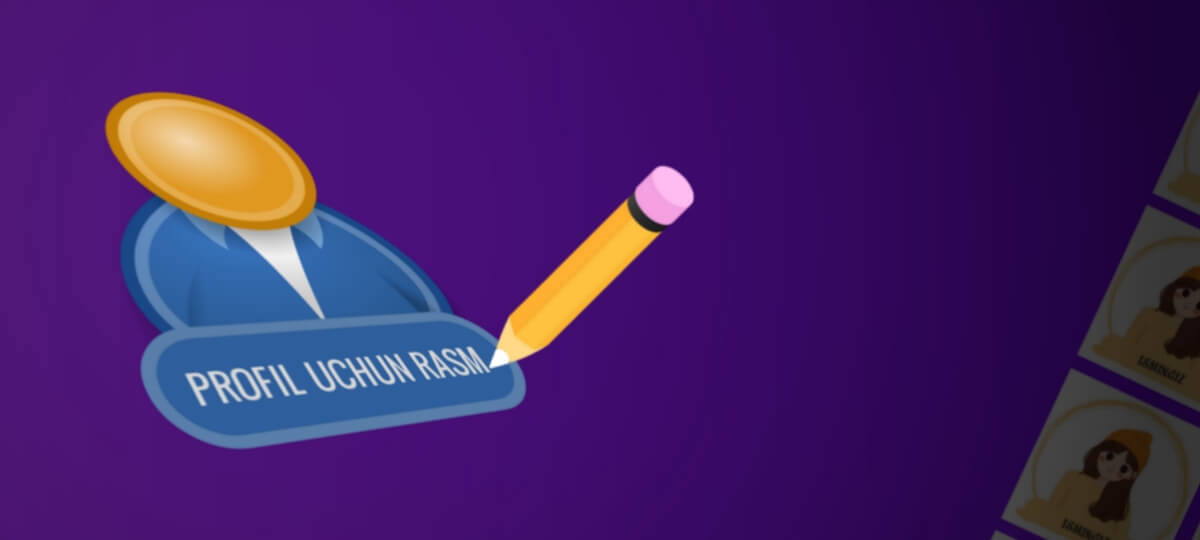
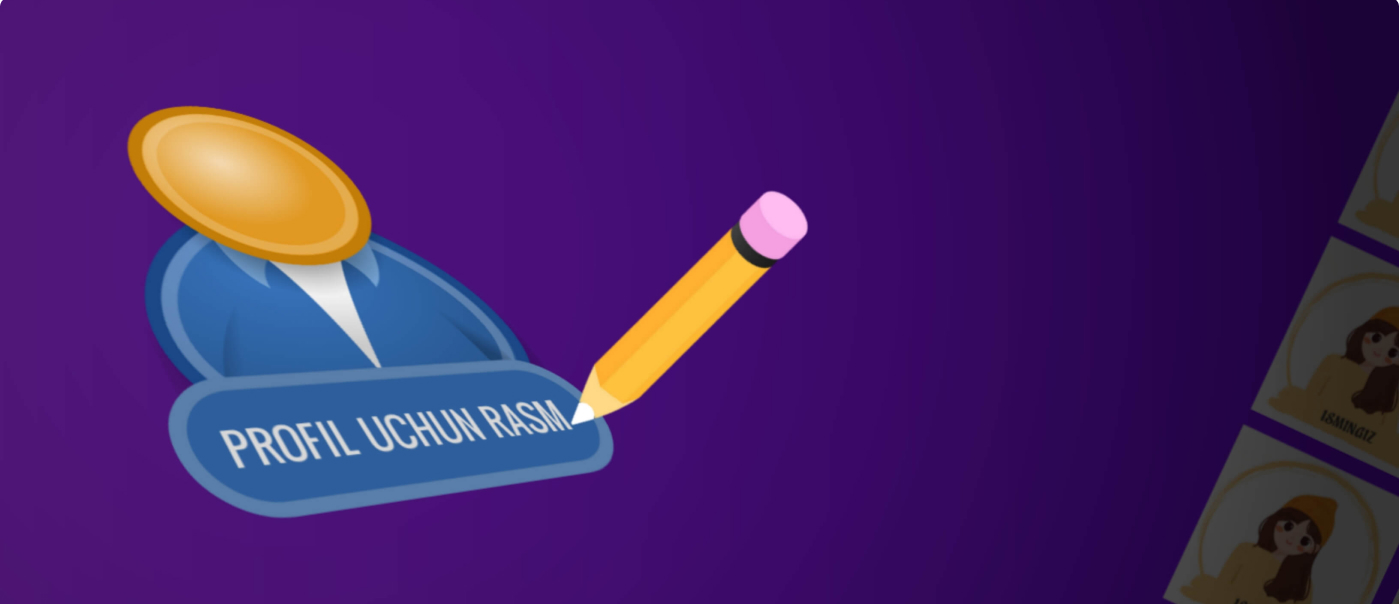
added new images adn codes

diff --git a/css/style.css b/css/style.css
@@ -18,10 +18,14 @@
   --card-shadow: 1px 1px 3px 0 rgba(0, 0, 0, 0.25);
   /* cta color  */
   --cta-bg-color: #ffffff;
-  /* 1px border width to 0px*/
-  --border-width: 1px;
   /* lists bg color */
   --header-lists-bg: #fff;
+  /* 1px border width to 0px*/
+  --border-width: 1px;
+  /* violet color to white color */
+  --violet-to-white: #5300af;
+  /* white color to violet  */
+  --white-to-violet: #fff;
 }
 
 html {
@@ -106,6 +110,10 @@ html {
   --cta-bg-color: linear-gradient(45deg, #290056 10%, 60%, #4d00a4);
   /* 1px border width to 0px*/
   --border-width: 0px;
+  /* violet color to white color */
+  --violet-to-white: #fff;
+  /* white color to violet  */
+  --white-to-violet: #5300AF;
 }
 
 /* container  */
@@ -123,7 +131,7 @@ ul {
 }
 
 h1 {
-  font-size: 40px;
+  font-size: 38px;
   line-height: 50px;
   font-family: poppins-700;
   color: var(--heading-color);
@@ -553,82 +561,15 @@ a {
   rotate: 45deg;
 }
 
-/* main  */
-.center {
-  padding: 60px 20px;
-}
-
-.index-title {
-  margin-bottom: 12px;
-}
-
-.index-title~p {
-  max-width: 710px;
-  font-family: poppins-500;
-  margin-bottom: 40px;
-}
-
-.pages-cards-wrapper {
-  display: grid;
-  grid-template-columns: auto auto;
-  gap: 20px;
-}
-
-.page-card-child {
-  display: flex;
-  overflow: hidden;
-  position: relative;
-  justify-content: center;
-  align-items: start;
-  border-radius: 50px;
-  padding: 40px 40px 0;
-  height: 400px;
-  box-shadow: var(--card-shadow);
-}
-
-.page-card-child:hover .page-card-center-img {
-  transform: scale(1.1);
-}
-
-.page-card-child:nth-child(1) {
-  background: var(--green-color);
-}
-
-.page-card-child:nth-child(2) {
-  background: var(--pink-color);
-}
-
-.page-card-child:nth-child(3) {
-  background: var(--orange-color);
-}
-
-.page-card-child:nth-child(4) {
-  background: var(--black-color);
-}
-
-.page-card-child div:first-child {
-  display: flex;
-  width: 100%;
-  justify-content: space-between;
-  align-items: start;
-}
-
-.page-card-title {
-  color: #FFF;
-  font-family: poppins-600;
-  font-size: 26px;
-  font-style: normal;
-  line-height: normal;
-}
-
-.top-right-arrow-icon {
-  color: white;
-}
 
 /* new page  */
 
 .hero {
-  padding: 60px 0;
+  padding: 60px 0 0;
+}
+
+.hero .container {
+  position: relative;
 }
 
 .title {
@@ -720,17 +661,21 @@ a {
 .hero-social-networks-list li:not(:last-child) {
   margin-right: 20px;
 }
-.hero-social-networks-list li a:focus{
+
+.hero-social-networks-list li a:focus {
   outline-offset: 3.5px;
 }
+
 .hero-social-networks-list li a svg {
   height: 30px;
   color: #fff;
 }
-.hero-social-networks-list li a svg:hover{
+
+.hero-social-networks-list li a svg:hover {
   color: #b908fa;
 }
-.hero-social-networks-list li a svg{
+
+.hero-social-networks-list li a svg {
   width: 24px !important;
   height: 24px !important;
 }

diff --git a/picturesforgirls.html b/picturesforgirls.html
@@ -112,9 +112,9 @@
     <!-- hero -->
     <div class="hero">
         <div class="container">
-            <h1 class="title">Qizlar uchun rasmlar</h1>
             <div class="hero-main-details">
-                <img width="1200" height="540" src="./images/photo-for-hero.jpg" alt="hero background image jpg" class="hero-bg">
+                <img width="1200" height="540" src="./images/photo-for-hero.jpg" alt="hero background image jpg"
+                    class="hero-bg">
                 <div class="hero-dark-filter"></div>
                 <a href="./index.html" class="hero-home-link">
                     <img src="./images/left-arrow-icon.svg" alt="left arrow icon svg">
@@ -123,7 +123,7 @@
                 <h2 class="hero-title">Saytimizda profilingiz uchun 100dan ortiq rasmlardan <span
                         class="hero-title-mark">bepul foydalaning!</span></h2>
                 <div class="hero-bottom">
-                    <a href="hhtps://pp-maker.netlify.app" class="website-link">https://www.pp-maker.netlify.app</a>
+                    <a href="hhtps://pp-maker.netlify.app" class="website-link">www.pp-maker.netlify.app</a>
                     <!-- social networks list  -->
                     <ul class="footer-social-networks-list hero-social-networks-list">
                         <li class="footer-social-networks-list-child">
@@ -163,6 +163,10 @@
                     </ul>
                 </div>
             </div>
+            <!-- bottom link  -->
+            <a href="#allimages" class="bottom-link">
+                <img src="./images/bottom-arrow-icon.svg" class="hero-bottom-arrow-icon" alt="bottom arrow icon">
+            </a>
         </div>
     </div>
 
@@ -293,7 +297,7 @@
             yaratildi.© 2023</div>
     </div>
     <!-- js link  -->
-    <script src="script.js"></script>
+    <script type="module" src="script.js"></script>
 </body>
 
 </html>

diff --git a/listInformations.js b/listInformations.js
@@ -1,0 +1,43 @@
+export const listInformations = [
+    {
+        imgSrc: './images/cartoon-girl(uploaded-profil-uchun-rasmlar.netlify.app)-compresse-image.jpg',
+        title: 'Multik qiz',
+        imgAlt: 'cartoon girl'
+    },
+    {
+        imgSrc: './images/cartoon-girl(uploaded-profil-uchun-rasmlar.netlify.app)-image.jpg',
+        title: 'Multik qiz',
+        imgAlt: 'cartoon girl'
+    },
+    {
+        imgSrc: './images/cartoon-girl(uploaded-profil-uchun-rasmlar.netlify.app)-compresse-image.jpg',
+        title: 'Multik qiz',
+        imgAlt: 'cartoon girl'
+    },
+    {
+        imgSrc: './images/cartoon-girl(uploaded-profil-uchun-rasmlar.netlify.app)-compresse-image.jpg',
+        title: 'Multik qiz',
+        imgAlt: 'cartoon girl'
+    },
+    {
+        imgSrc: './images/cartoon-girl(uploaded-profil-uchun-rasmlar.netlify.app)-compresse-image.jpg',
+        title: 'Multik qiz',
+        imgAlt: 'cartoon girl'
+    },
+    {
+        imgSrc: './images/cartoon-girl(uploaded-profil-uchun-rasmlar.netlify.app)-compresse-image.jpg',
+        title: 'Multik qiz',
+        imgAlt: 'cartoon girl'
+    },
+    {
+        imgSrc: './images/cartoon-girl(uploaded-profil-uchun-rasmlar.netlify.app)-compresse-image.jpg',
+        title: 'Multik qiz',
+        imgAlt: 'cartoon girl'
+    },
+    {
+        imgSrc: './images/cartoon-girl(uploaded-profil-uchun-rasmlar.netlify.app)-compresse-image.jpg',
+        title: 'Multik qiz',
+        imgAlt: 'cartoon girl'
+    },
+
+];

diff --git a/index.html b/index.html
@@ -282,12 +282,12 @@
     </footer>
 
     <!-- bottom  -->
-    <div class="footer-bottom">
+    <div class="footer-bottom"> 
         <div class="container">Ushbu sayt <a href="https://t.me/mryaxyobek">Xabibullayev Yaxyobek</a> tomonidan
             yaratildi.© 2023</div>
     </div>
     <!-- js link  -->
-    <script src="script.js"></script>
+    <script type="module" src="script.js"></script>
 </body>
 
 </html>

diff --git a/script.js b/script.js
@@ -1,3 +1,4 @@
+import { listInformations } from './listInformations.js';
 // header and top btn
 const elHeader = document.querySelector('.header');
 const elHeaderLogo = document.querySelector('.header-logo');

diff --git a/picturesforboys.html b/picturesforboys.html
@@ -234,7 +234,7 @@
             yaratildi.© 2023</div>
     </div>
     <!-- js link  -->
-    <script src="script.js"></script>
+    <script type="module" src="script.js"></script>
 </body>
 
 </html>
